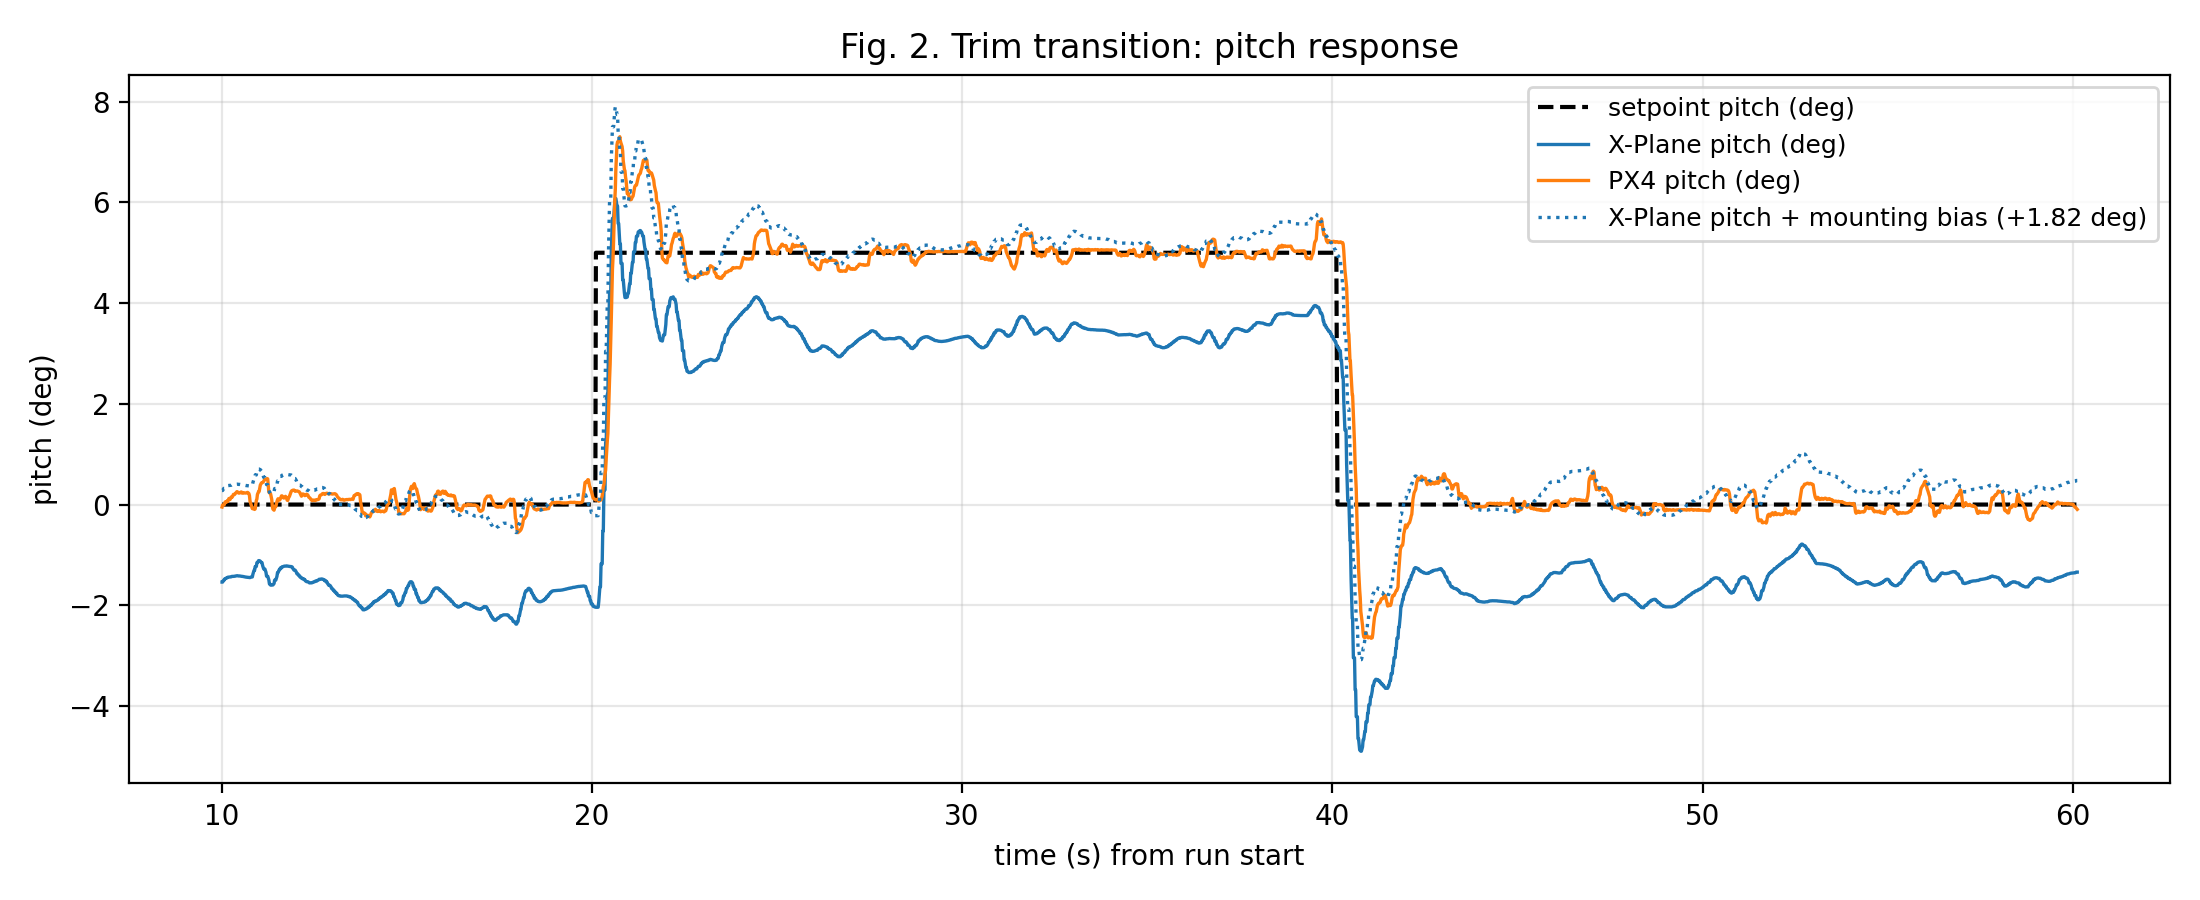
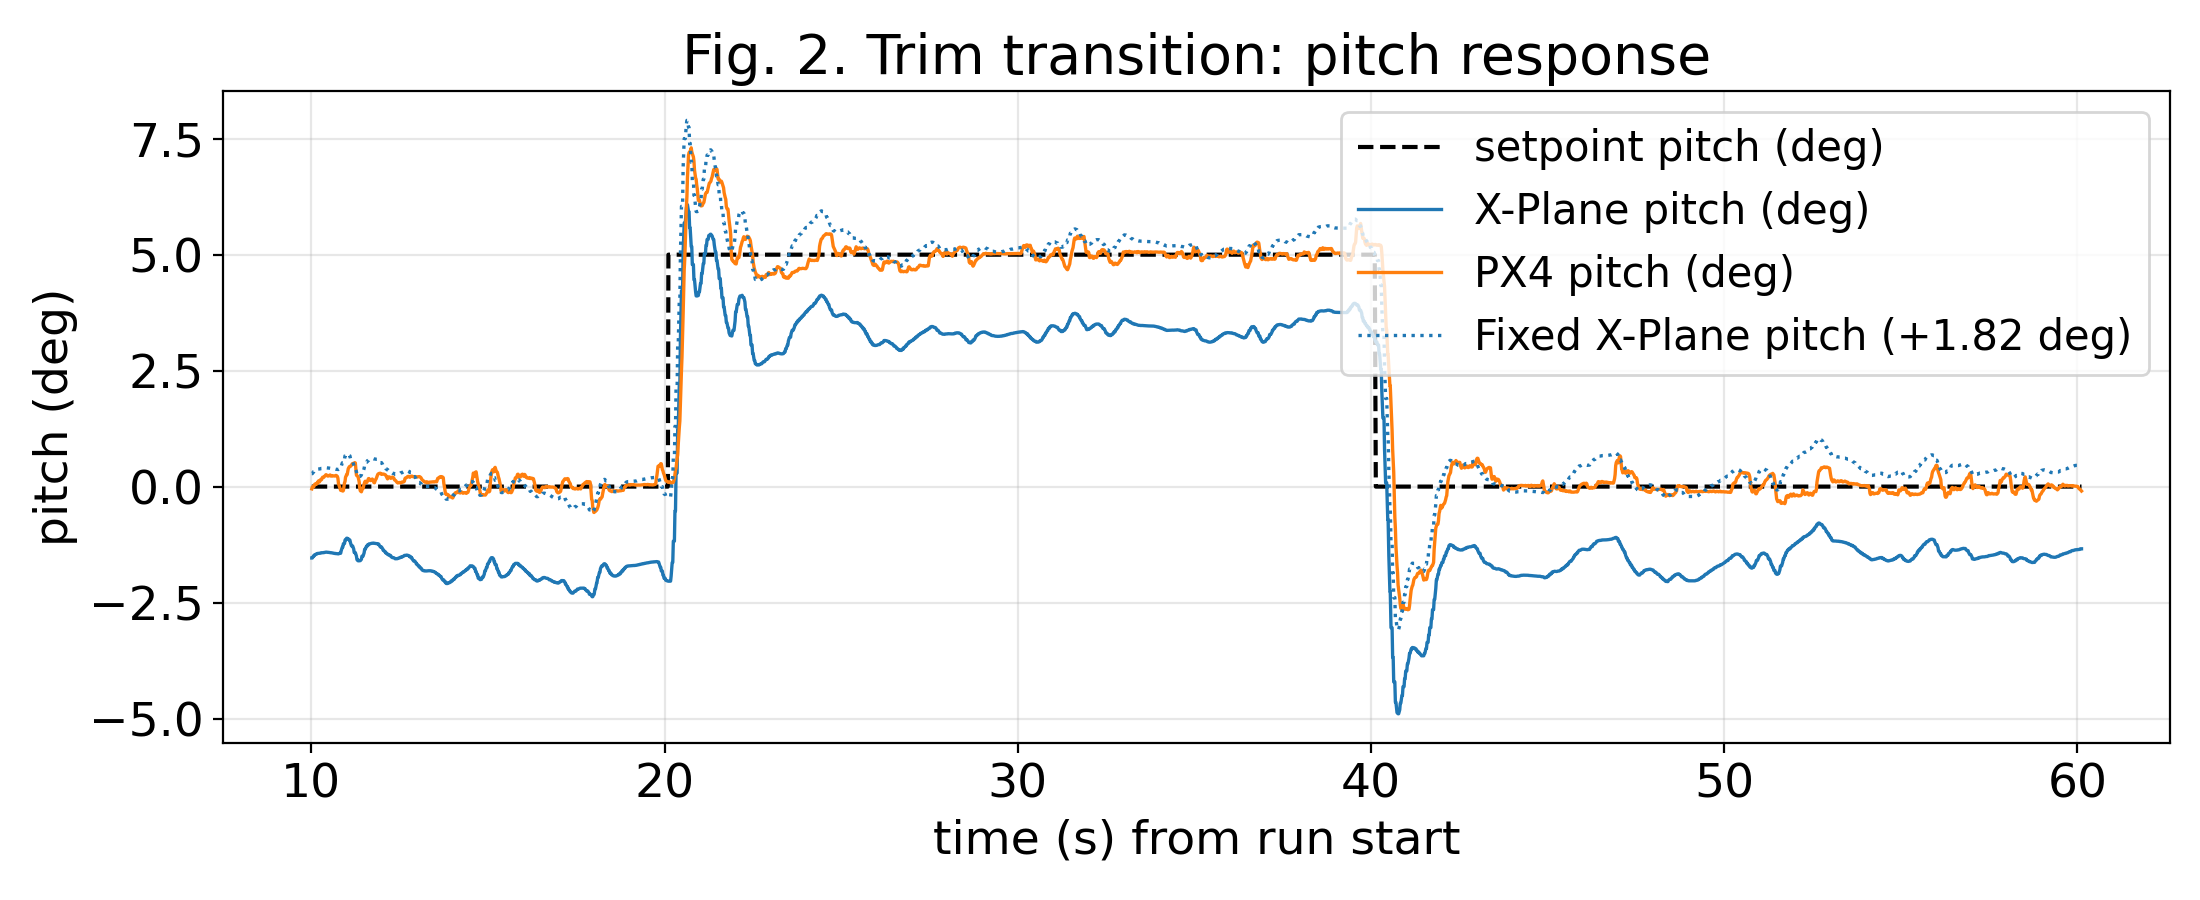
increase font size and fix numbering

diff --git a/paper/Fig_Gen.py b/paper/Fig_Gen.py
@@ -196,6 +196,10 @@ def load_run(run_dir: Path, *, skip_first_s: float) -> RunData:
 
 # ---------------- Plotting ----------------
 
+# Font size multiplier for Fig1, Fig2, Fig5b (2 = double)
+_FONT_SCALE = 1.7
+
+
 def _mpl():
     # Avoid GUI backend issues in headless runs
     os.environ.setdefault("MPLBACKEND", "Agg")
@@ -228,14 +232,15 @@ def fig2_pitch_response(run: RunData) -> Path:
             color="tab:blue",
             lw=1.2,
             ls=":",
-            label=f"X-Plane pitch + mounting bias ({pb:+.2f} deg)",
+            label=f"Fixed X-Plane pitch ({pb:+.2f} deg)",
         )
 
-    ax.set_title("Fig. 2. Trim transition: pitch response")
-    ax.set_xlabel("time (s) from run start")
-    ax.set_ylabel("pitch (deg)")
+    ax.set_title("Fig. 2. Trim transition: pitch response", fontsize=int(12 * _FONT_SCALE))
+    ax.set_xlabel("time (s) from run start", fontsize=int(10 * _FONT_SCALE))
+    ax.set_ylabel("pitch (deg)", fontsize=int(10 * _FONT_SCALE))
+    ax.tick_params(axis="both", labelsize=int(10 * _FONT_SCALE))
     ax.grid(True, alpha=0.3)
-    ax.legend(loc="best", fontsize=9)
+    ax.legend(loc="best", fontsize=int(9 * _FONT_SCALE))
     fig.tight_layout()
 
     out = OUT_DIR / "Fig2_PitchResponse.png"
@@ -343,8 +348,9 @@ def fig5_latency(run_hero: RunData, runs_baseline: list[RunData]) -> tuple[Path,
     labels = ["X-Plane sample age (ms)", "PX4 sample age (ms)", "Serial RTT (ms)"]
     # Matplotlib >=3.9 renamed "labels" -> "tick_labels"
     ax_b.boxplot(data, tick_labels=labels, showfliers=False)
-    ax_b.set_title("Fig. 5(b). Latency distributions (aggregate runs #5–#9)")
-    ax_b.set_ylabel("ms")
+    ax_b.set_title("Fig. 3. Latency distributions", fontsize=int(12 * _FONT_SCALE))
+    ax_b.set_ylabel("ms", fontsize=int(10 * _FONT_SCALE))
+    ax_b.tick_params(axis="both", labelsize=int(10 * _FONT_SCALE))
     ax_b.grid(True, axis="y", alpha=0.25)
     fig_b.tight_layout()
     out_b = OUT_DIR / "Fig5b_Latency_Distribution_Baseline.png"
